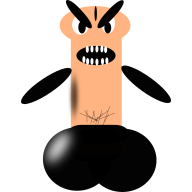
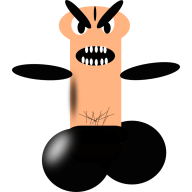
ATK-tunnin muutokset
1. Vihollisen ja pelihahmon kuvat ladataan ainoastaan alussa, aiemmin
latasi jokaisella tickillä 2. Lisätty kuoleminen

diff --git a/js/scripts.js b/js/scripts.js
@@ -1,61 +1,3 @@
-// 0 = Tyhjä
-// 1 = Tie eteenpäin
-// 2 = Mutka, vasen
-// 3 = Mutka, oikea
-// 4 = Risteys
-// 5 = Silta
-// 6 = Alikulku
-// 7 = Kuilu
-// 8 = Varattu
-// 9 = Varattu
-
-var ukkoId=1;
-var vihuId=1;
-
-var blocks = {
-	"-1x0"	:	0,
-	"-1x-1"	:	0,
-	"-1x-2"	:	0,
-	"-1x-3"	:	0,
-	"-1x-4"	:	0,
-	"-1x-5"	:	0,
-	"-1x0"	:	0,
-	"-1x1"	:	0,
-	"-1x2"	:	1,
-	"-1x3"	:	0,
-	"-1x4"	:	0,
-	"-1x5"	:	0,
-	"0x-1"	:	0,
-	"1x-1"	:	0,
-	"2x-1"	:	1,
-	"3x-1"	:	0,
-	"4x-1"	:	0,
-	"5x-1"	:	0,
-	"0x0"	:	0,
-	"1x0"	:	0,
-	"2x0"	:	1,
-	"3x0"	:	0,
-	"4x0"	:	0,
-	"5x0"	:	0,
-	"0x1"	:	0,
-	"1x1"	:	0,
-	"2x1"	:	1,
-	"3x1"	:	0,
-	"4x1"	:	0,
-	"5x1"	:	0,
-	"0x2"	:	0,
-	"1x2"	:	0,
-	"2x2"	:	1,
-	"3x2"	:	0,
-	"4x2"	:	0,
-	"5x2"	:	0,
-	"0x3"	:	0,
-	"1x3"	:	0,
-	"2x3"	:	0,
-	"3x3"	:	0,
-	"4x3"	:	0,
-	"5x3"	:	0
-};
 
 $(function(){
 	function game(){
@@ -68,11 +10,7 @@ $(function(){
 		}
 	}
 	
-	var ukko = new Image();
-	ukko.src="img/stick1.png";
-	
-	var vihu = new Image();
-	vihu.src="img/vihollinen1.png";
+
 	
 	function lataaKuva(kuva){
 		var img = new Image();
@@ -100,7 +38,6 @@ $(function(){
 	
 	function lataaLintu(){
 		var taulu = [];
-
 		for(i=0;i<9;i++){
 			var img = new Image();			
 			img.src="img/Lint"+i+".png";
@@ -108,6 +45,28 @@ $(function(){
 		}
 		return taulu;
 	}
+
+	function lataaUkko(){
+		var taulu = [];
+		for(i=0;i<3;i++){
+			var img = new Image();			
+			img.src="img/stick"+i+".png";
+			taulu.push(img);
+		}
+		return taulu;
+	}
+
+	function lataaVihu(){
+		var taulu = [];
+		for(i=0;i<5;i++){
+			var img = new Image();			
+			img.src="img/vihu"+i+".png";
+			taulu.push(img);
+		}
+		return taulu;
+	}
+
+	
 	
 	var images = [
 		lataaKuva("blank"),
@@ -117,6 +76,7 @@ $(function(){
 		lataaKuva("risteys")
 	];
 	
+
 	
 	var tieSuoraan = lataaTieSuoraan();
 	
@@ -126,7 +86,19 @@ $(function(){
 	var lintuY = 128;
 	var lintuK = 1.25;
 	//var iLintuMax=8;
+
+
+	var ukko = lataaUkko();
+	var iUkko=0;
+	var ukkoX = 384;
+	var ukkoY = 192;
+
 	
+	var vihu = lataaVihu();
+	var iVihu=1;
+	var vihuX = 384; 
+	var vihuSiirtyma = 256;
+
 	//2D-taulukko [5x4 vai 5x5], jossa on referenssit kuviin
 	var maasto = new Array(5);
 	for (var i=0; i<maasto.length; i++){ //X-suuntaan
@@ -152,32 +124,33 @@ $(function(){
 	ylinRivi[0] = "tausta";
 	
 	
-	setInterval(paivita,25);
-	
-	var iVihu = 0;
-	
-	var siirtoY = 0;
-	var iUkko = 0;
-	var ukkoX = 384;
-	var ukkoY = 192;
 	var ukkoLiikkuuX = 0;
+	var siirtoY = 0;	
+	setInterval(paivita,25);
 	
 	//Hoitaa kaiken päivityksen 
 	function paivita(){
-		ukkoId+=1;
-		if(ukkoId==4){
-			ukkoId=1;
+		// Pelin lopetustestaus
+
+		// Siirtää vihollista hitaasti taaksepäin
+		vihuSiirtyma = Math.min(256,vihuSiirtyma+.375);
+		
+		iUkko+=1;
+		if(iUkko>=ukko.length){
+			iUkko=0;
 		}
-		vihuId+=1;
-		if(vihuId==6){
-			vihuId=1;
+		iVihu+=1;
+		if(iVihu>=vihu.length){
+			iVihu=0;
 		}
-		ukko.src="img/stick"+ukkoId+".png";
-		vihu.src="img/vihu"+ukkoId+".png";
+		
+		
 		//Piirrä oliota ja asioita. 
 		piirraMaasto(siirtoY);
+		
+		piirraVihu(iVihu,vihuX,ukkoY+vihuSiirtyma);
 		piirraUkko(iUkko,ukkoX,ukkoY);
-		piirraVihu(iVihu,ukkoX,ukkoY+224);
+		vihuX = ukkoX; 
 		piirraLintu(iLintu,lintuX,lintuY);
 		//
 		//Aloita päivittäminen:
@@ -199,10 +172,14 @@ $(function(){
 		}).keyup(function(e){
 			ukkoLiikkuuX = 0;
 		});
+		
+		//Ukon paikan tarkistus. . . 
 		if(ukkoX<352 || ukkoX > 432){
 			ukkoX=384;
+			vihuSiirtyma -= 128; 
 		}
 		ukkoX += ukkoLiikkuuX;
+		
 		
 		//Maasto
 		siirtoY+=4;
@@ -221,11 +198,17 @@ $(function(){
 			lintuX=-512;
 			lintuY=(Math.random()*($("canvas").height()/2))+$("canvas").height()/4;
 			lintuK=(Math.random()-.5)*6;
-			console.log(lintuK);
+			//console.log(lintuK);
 		}
 
 		//Maaston päivitys:
-		
+
+				if(vihuSiirtyma < 128){
+			//alert("Hävisit pelin! :(");
+			vihuSiirtyma=0;
+			game().font = 'bold 64px sans-serif';
+			game().fillText("Hävisit pelin!",256,128);
+		}
 	}
 	
 	function piirraMaasto(siirtoY){
@@ -237,18 +220,19 @@ $(function(){
 	}
 	
 	
-	function piirraLintu(iLintu,x,y){
+	function piirraLintu(i,x,y){
 		//Linnun piirtäminen. Muut viholliset menee samalla tavalla.
-		game().drawImage(lintu[iLintu],x,y);
+		game().drawImage(lintu[i],x,y);
 	}
 	
-	function piirraVihu(iVihu,x,y){
-		game().drawImage(vihu,x,y);
+	function piirraVihu(i,x,y){
+		game().drawImage(vihu[i],x,y);
 	}
 	
-	function piirraUkko(iUkko,x,y){
+	function piirraUkko(i,x,y){
 		//Pelihahmo samalla tavalla
-		game().drawImage(ukko,x,y);
+		game().drawImage(ukko[i],x,y);
 	}
+	
 
 });
